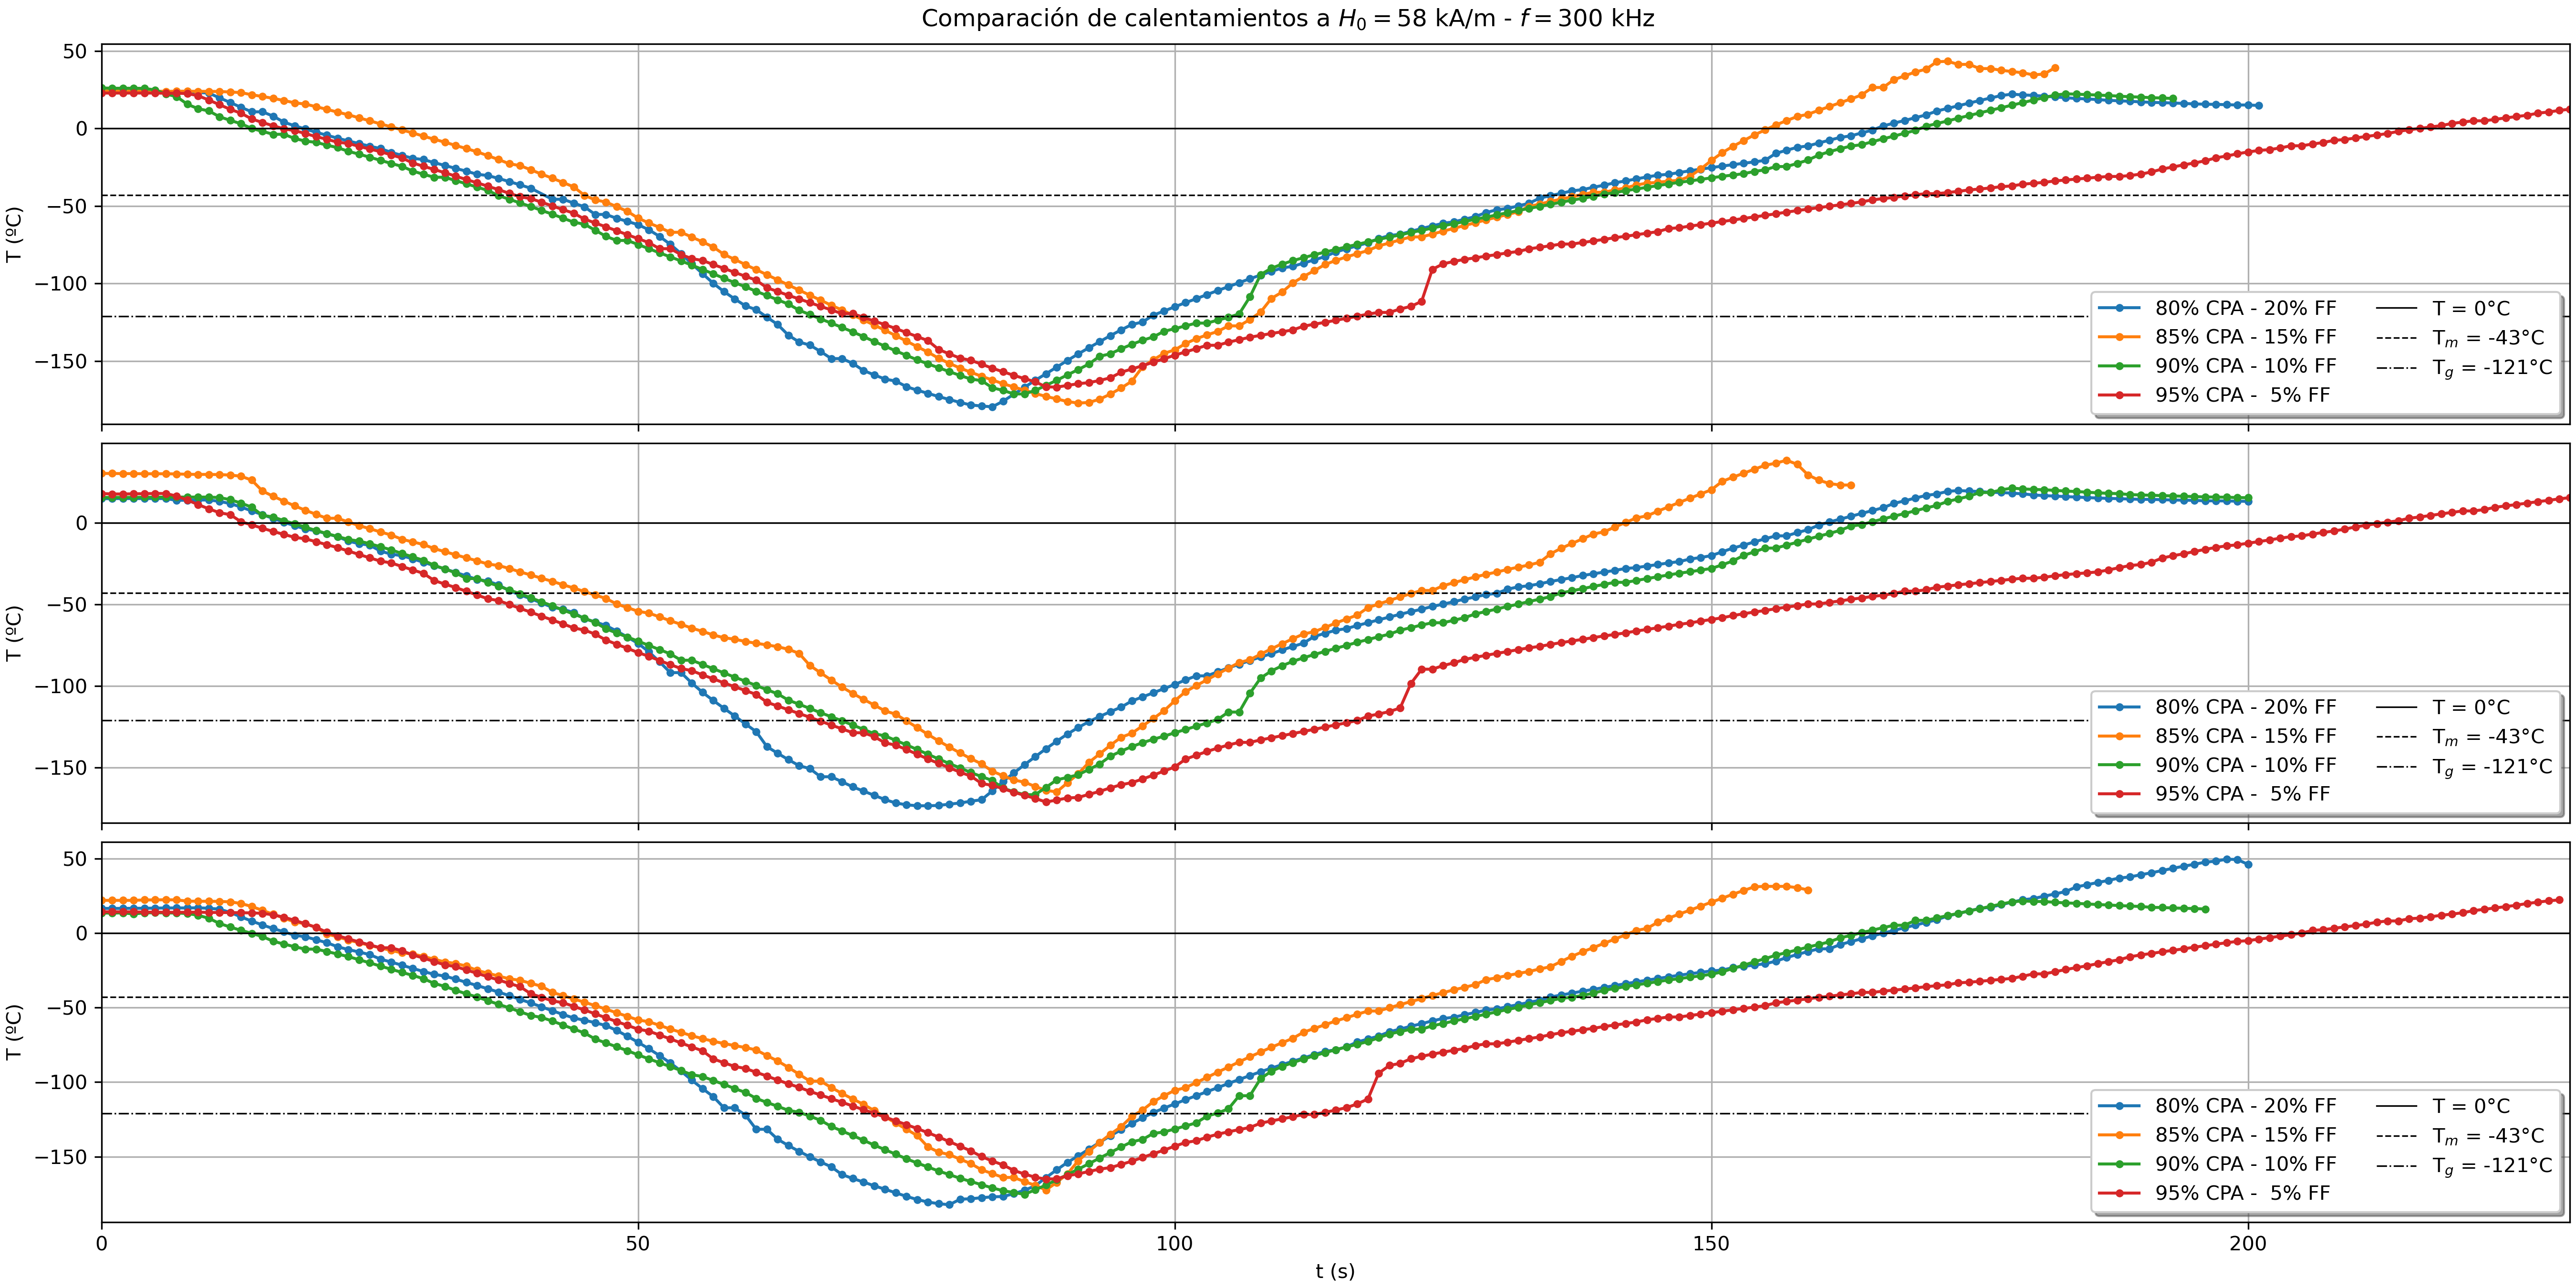
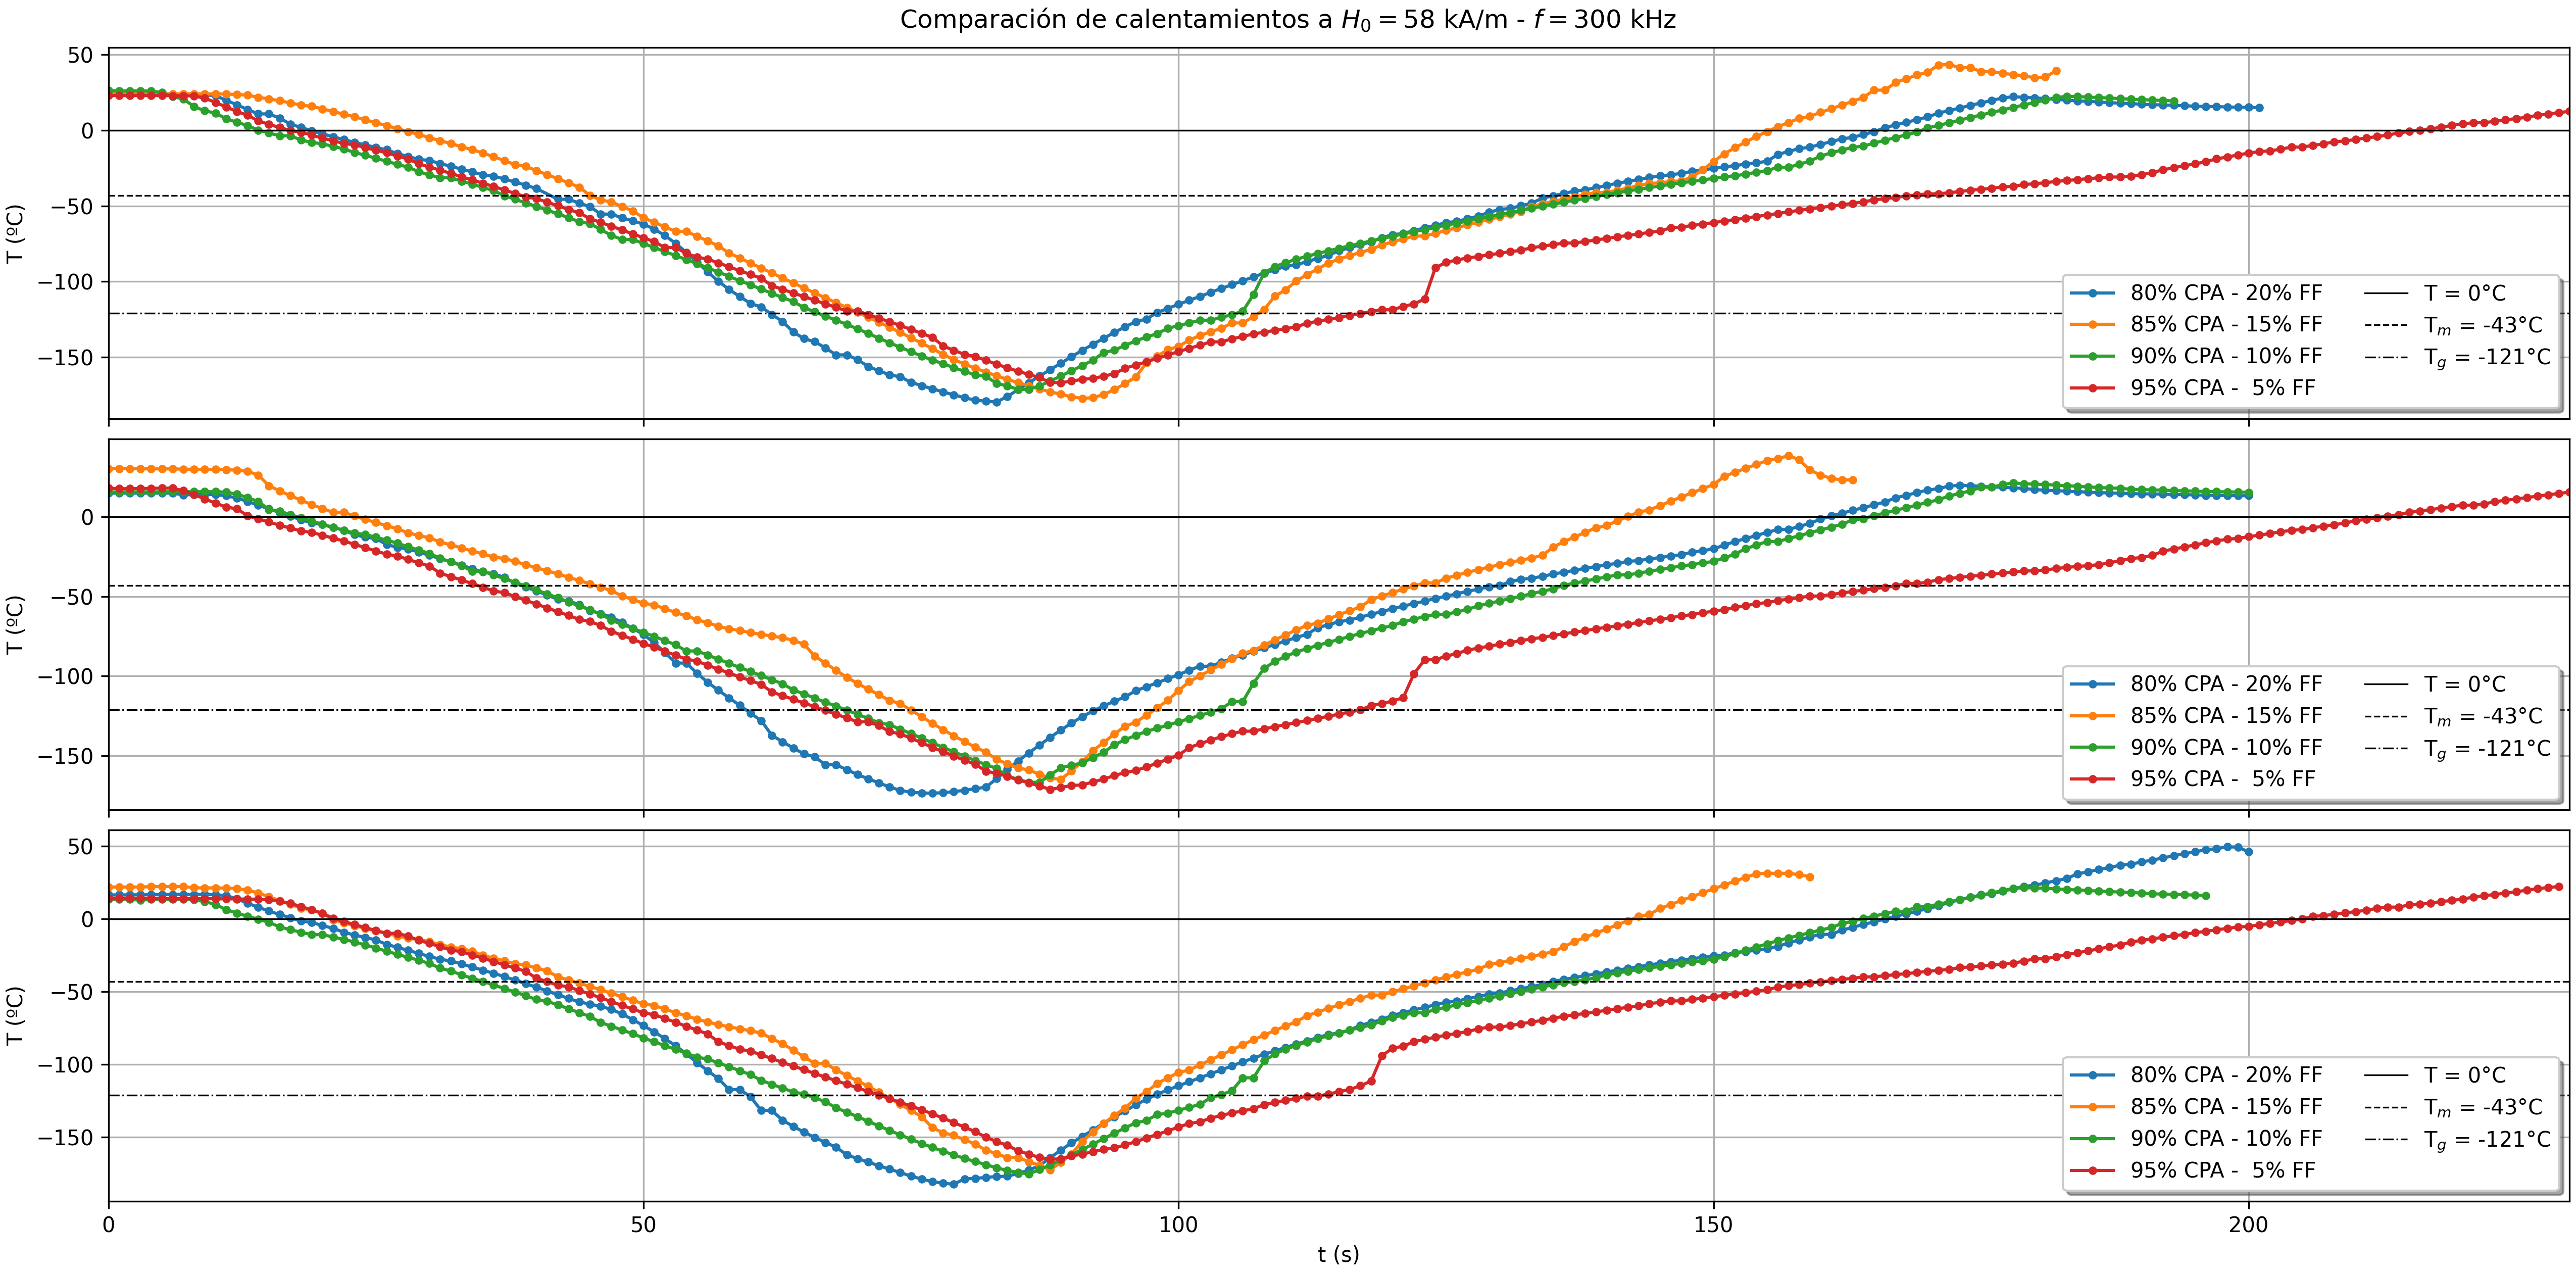
work from home

diff --git a/CPA_NF@cit13h_LN2.py b/CPA_NF@cit13h_LN2.py
@@ -472,7 +472,7 @@ ax.set_xlabel('t (s)')
 plt.suptitle('95% CPA (475 uL) - 5% NF@cit_13h (25 uL)')
 plt.savefig('presentacion_G3M_95_CPA_475-25.png',dpi=300)
 #%% Ahora comparo los 4 en la misma figura para la presentacion de G3M
-fig,axs=plt.subplots(3,1,figsize=(18,9),constrained_layout=True,sharex=True)
+fig,axs=plt.subplots(3,1,figsize=(17,8.4),constrained_layout=True,sharex=True)
 
 for j in range(3):
     _,t,T, _ = lector_templog(paths_152_1[j])